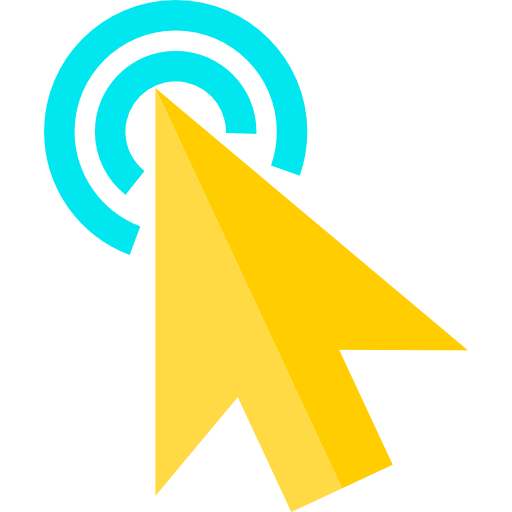
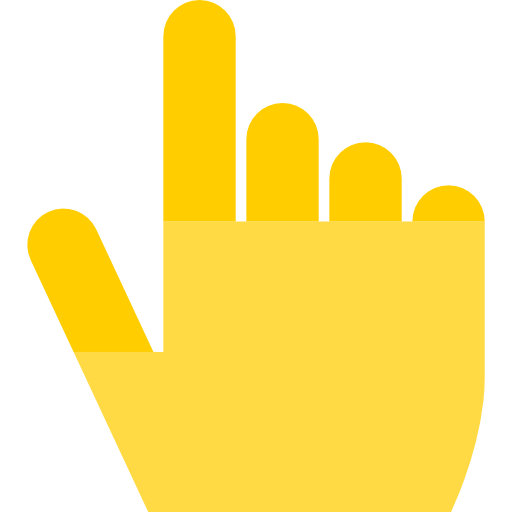
Cursor implemented on pickup items

diff --git a/Assets/Scripts/Items/ItemPickup.cs b/Assets/Scripts/Items/ItemPickup.cs
@@ -4,6 +4,8 @@ public class ItemPickup : Interactable
 {
     public Item item;
 
+    public Texture2D cursorInteract;
+    
     public override void Interact()
     {
         base.Interact();
@@ -21,5 +23,15 @@ public class ItemPickup : Interactable
         {
             Destroy(gameObject);
         }
+    }
+
+    private void OnMouseEnter()
+    {
+        Cursor.SetCursor(cursorInteract, Vector2.zero, CursorMode.Auto);
+    }
+
+    private void OnMouseExit()
+    {
+        Cursor.SetCursor(null, Vector2.zero, CursorMode.Auto);
     }
 }
